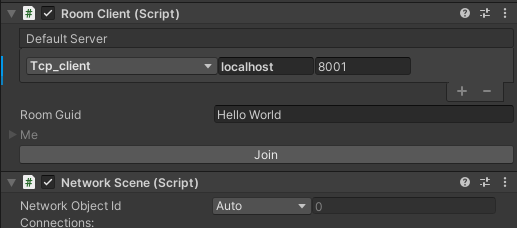
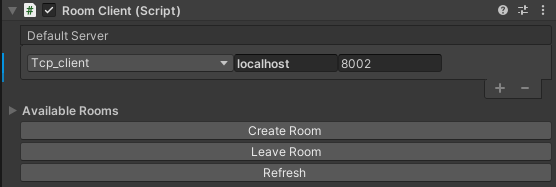
Update docs and remove UI for local loopback

diff --git a/Documentation/docs/localloopback.md b/Documentation/docs/localloopback.md
@@ -1,10 +1,16 @@
 # Testing Networked Objects
 
-To enable you to test your networked objects without the help of a friend, the &quot;Hello World – Local Loopback&quot; scene is included in the Ubik samples. It has the scenery of the &quot;Hello World&quot; scene, but twice. Another addition is a local server that is automatically started when you play the scene and the scene is configured to connect both instances of the environment to it. This way, you create you have two connected clients in one active Unity scene and can test your networked objects without involving the UCL server or any other person.
+A local loopback scene is included in the Ubiq samples. Local loopback is helpful for testing your networked objects without needing to use any external applications. The scene contains two clients and a local server that is started when you play the scene.
 
 ![](images/6d75e6c4-a29b-458e-909c-847b7da0796d.png)
 
-To use it, you have to import the Ubik Samples and open the scene in the samples\introduction folder. To start the loopback, simply click the play button. The local server is now started and you will see an avatar in the left forest, but not the right, because they have not joined the same room yet. For that, open the nodes for both forests and find the nodes with the name &quot;NetworkScene&quot; within (see left image below). In the inspector window you will find a button with the title &quot;join&quot; (see right image below). If you click it for both nodes, you will notice that the forest on the right now also has an avatar in it that moves in sync with the left one. The two clients are now connected and you can test your networked objects.
+The scene is in the Samples/Intro folder. To get started:
+
+1. Click the play button. The local server is now started and you will see an avatar in one forest. At this stage, neither client is connected to the server.
+2. Expand the hierarchy for Forest 1 and click on the GameObject with the name &quot;NetworkScene&quot; within (see left image below). In the Inspector panel, click Create Room (right image below).
+3. Expand the hierarchy for Forest 2 and click the other &quot;NetworkScene&quot; GameObject. In the Inspector panel, click Refresh and you will see the room you just created. Click to join the room.
+
+Now both clients are connected to the local server and you can test your networked objects. You will notice both Forests now have avatars inside and that the avatars move in sync. There are now 4 avatars in the scene, 2 in each forest, but they share a position. This is because their positions and orientations are derived from the same player prefab.
 
 | ![](images/d9186eab-5ec2-4251-9078-25ee8af2b4de.png) | ![](images/13b07596-a1cf-4117-97b6-120d9cb803e1.png) |
 | --- | --- |
